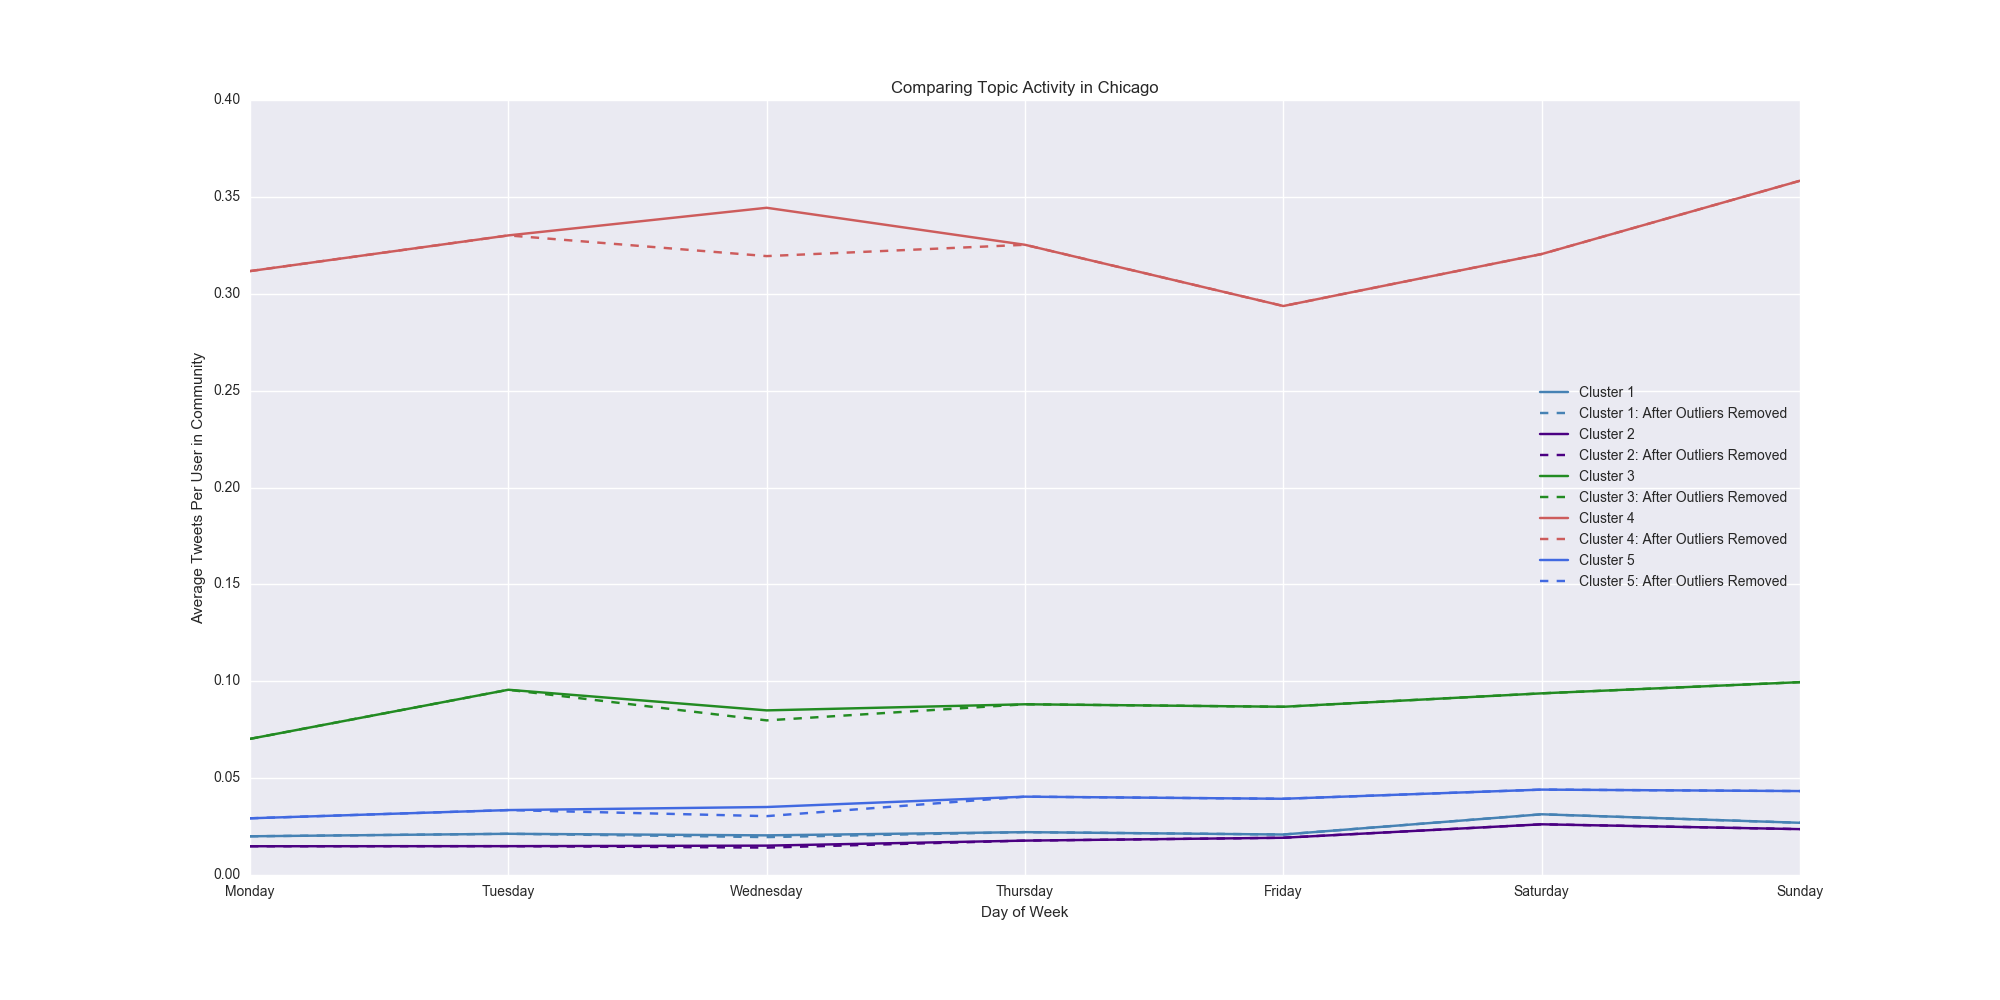
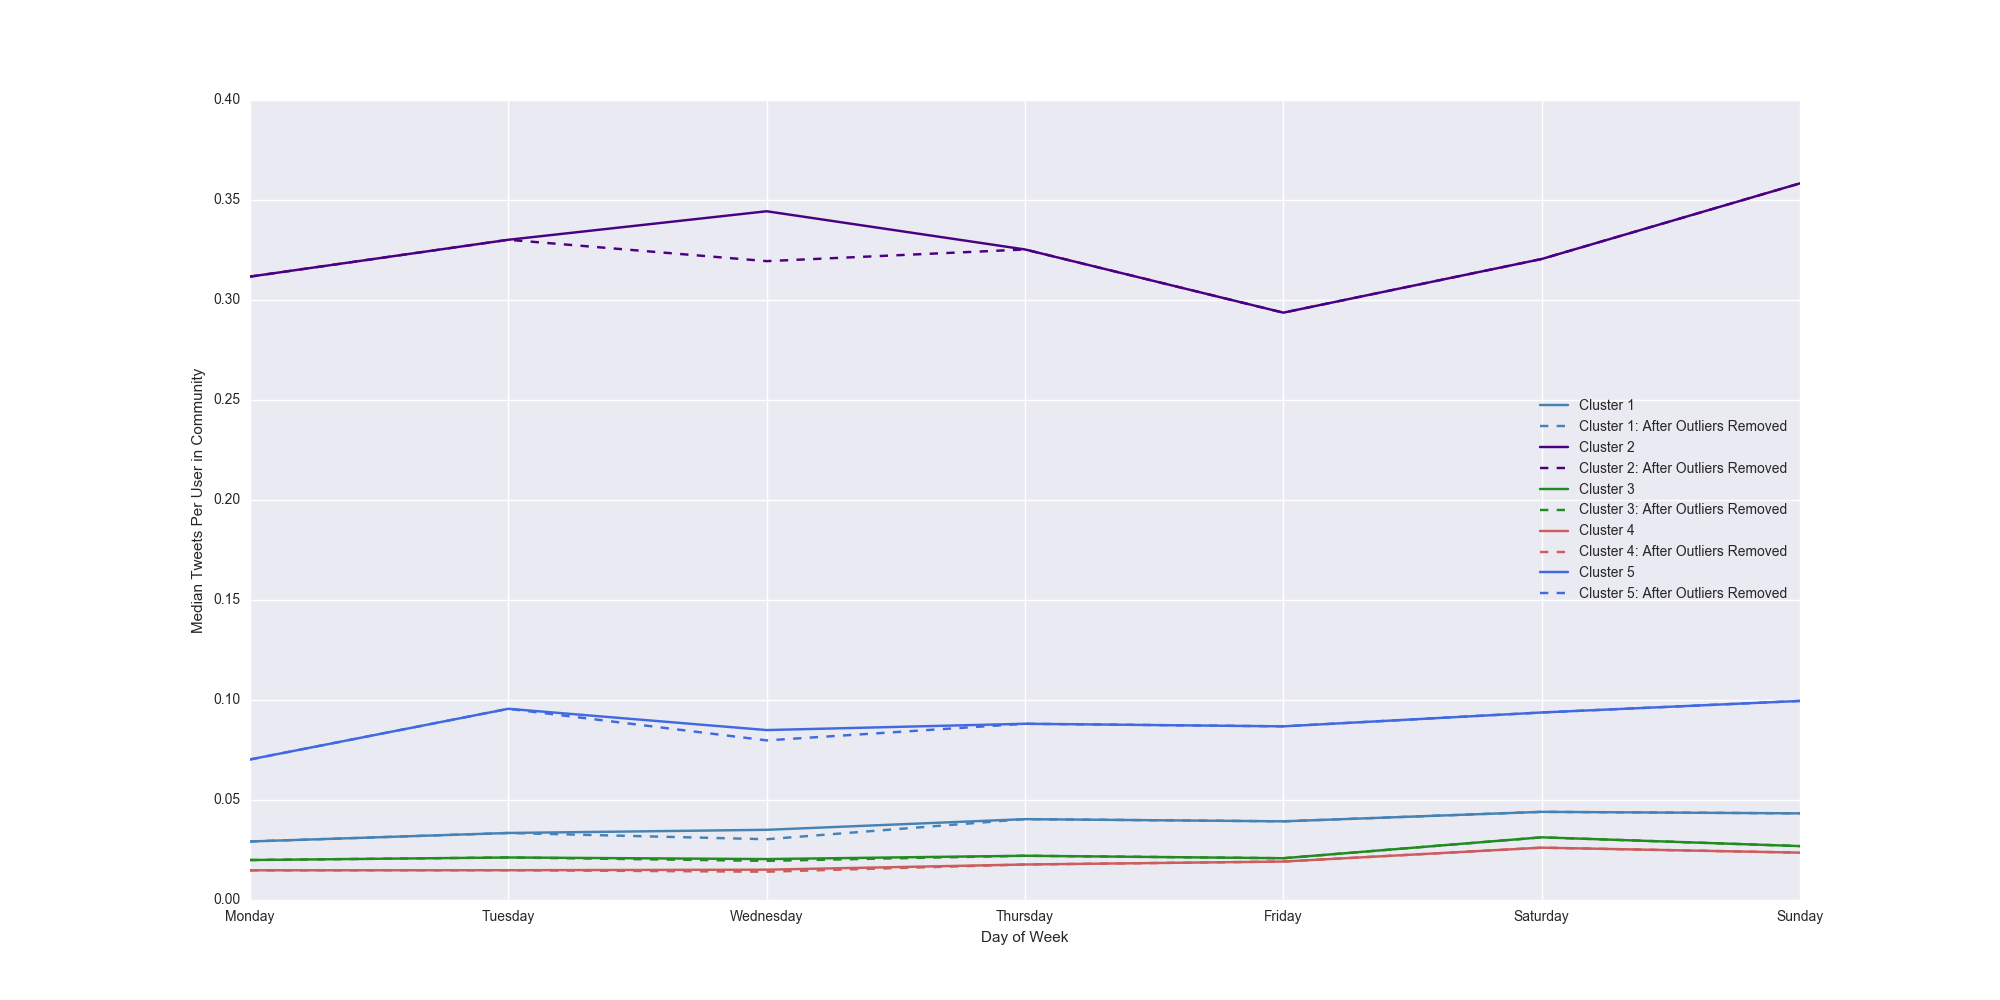
time series

diff --git a/Analysis/Cleaning.py b/Analysis/Cleaning.py
@@ -8,7 +8,6 @@ from login_info import user, host, password
 
 # sql command
 from SQL_Commands import Istanbul_Sql
-
 #######Importing and Cleaning######
 # connect to database
 conn = psycopg2.connect(
@@ -34,7 +33,7 @@ fulldf.top_topic = fulldf.top_topic.fillna(value=fulldf.user_lang)
 # stripping date and time from created_at
 fulldf['Date'] = fulldf['tzone'].apply(lambda row: str(row).split()[0])
 fulldf['Time'] = fulldf['tzone'].apply(lambda row: str(row).split()[1])
-
+fulldf['Date']
 # Sorting
 fulldf['Date1'] = pd.to_datetime(fulldf.Date)
 fulldf = fulldf.sort_values(by='Date1')
@@ -52,40 +51,63 @@ community_size = dict(zip(communitysize.index, communitysize.values))
 fulldf["topic_percentage"] = (1 / fulldf["top_topic"].map(community_size))
 
 # Assigning heirarchial clustering results to topics
-cluster_mapping_istanbul = {"Arabic": 1,
-                            "French": 2,
-                            "German": 2,
-                            "Russian": 3,
-                            "English0": 2,
-                            "Turkish0": 2,
-                            "Turkish13": 3,
-                            "Turkish16": 4,
-                            "English1": 2,
-                            "Turkish1": 5,
-                            "English2": 2,
-                            "Turkish2": 5,
-                            "Turkish3": 5,
-                            "Turkish4": 5,
-                            "Turkish5": 5,
-                            "Turkish6": 5,
-                            "Turkish7": 4,
-                            "Turkish8": 5,
-                            "Turkish9": 3}
+cluster_mapping_istanbul = {"ar": 1,
+                            "fr": 2,
+                            "de": 2,
+                            "ru": 3,
+                            "es": 1,
+                            "English_0": 2,
+                            "Turkish_0": 2,
+                            "Turkish_13": 3,
+                            "Turkish_16": 4,
+                            "English_1": 2,
+                            "Turkish_1": 5,
+                            "English_2": 2,
+                            "Turkish_2": 5,
+                            "Turkish_3": 5,
+                            "Turkish_4": 5,
+                            "Turkish_5": 5,
+                            "Turkish_6": 5,
+                            "Turkish_7": 4,
+                            "Turkish_8": 5,
+                            "Turkish_9": 3, }
 
-cluster_mapping_chicago = {0: 4, 1: 4, 2: 4, 3: 4, 4: 4, 5: 4, 6: 4,
-                           7:  3, 8: 5, 9: 2, 10: 1, 11: 2, 12: 2, 13: 2, 14: 2, 15: 2, 16: 2, 17: 2, 18: 5, 'es': 5}
-
-cluster_mapping_la = {"Arabic": 1,
-                      "French": 2,
-                      "Japanese": 3,
-                      "Portuguese": 4,
-                      "Spanish": 2,
+cluster_mapping_chicago = {"es": 1,
+                           0: 2,
+                           10: 3,
+                           11: 4,
+                           12: 4,
+                           13: 4,
+                           14: 4,
+                           15: 4,
+                           16: 4,
+                           17: 4,
+                           18: 1,
+                           1: 2,
+                           2: 2,
+                           3: 2,
+                           4: 2,
+                           5: 2,
+                           6: 2,
+                           7: 5,
+                           8: 1,
+                           9: 4,
+                           'ar': 7}
+cluster_mapping_la = {"ar": 1,
+                      "fr": 2,
+                      "ja": 3,
+                      "pt": 4,
+                      "es": 2,
                       0: 3,
                       12: 5,
                       15: 5,
                       16: 5,
                       17: 5,
                       19: 5,
+                      1: 3,
+                      2: 3,
+                      3: 3,
+                      4: 3,
                       5: 3,
                       6: 3,
                       7: 3,

diff --git a/Analysis/Final_Time_Series.py b/Analysis/Final_Time_Series.py
@@ -9,7 +9,6 @@ import seaborn as sns
 
 # import data
 from Cleaning import fulldf
-#%matplotlib inline
 # group together topics by cluster assignment and date
 Users = fulldf.groupby(['Date1', 'Cluster', 'top_topic'])[
     'topic_percentage'].aggregate(sum).unstack()
@@ -31,31 +30,36 @@ df["Date"] = Dates
 df["Cluster"] = Clusters
 df["Median_Counts"] = Medians
 
-# Cluster 1 time series
+
 df_cluster1 = df[df.Cluster == 1]
 cluster1_series = pd.Series(df_cluster1["Median_Counts"].as_matrix(), index=df_cluster1["Date"])
-
+print(df_cluster1)
+cluster1_series.describe()
 # Cluster 2 time series
 df_cluster2 = df[df.Cluster == 2]
 cluster2_series = pd.Series(df_cluster2["Median_Counts"].as_matrix(), index=df_cluster2["Date"])
-
+cluster2_series.describe()
 # Cluster 3 time series
 df_cluster3 = df[df.Cluster == 3]
 cluster3_series = pd.Series(df_cluster3["Median_Counts"].as_matrix(), index=df_cluster3["Date"])
-
+cluster3_series.describe()
 # Cluster 4 time series
 df_cluster4 = df[df.Cluster == 4]
 cluster4_series = pd.Series(df_cluster4["Median_Counts"].as_matrix(), index=df_cluster4["Date"])
-
+cluster4_series.describe()
 # Cluster 5 time series
 df_cluster5 = df[df.Cluster == 5]
 cluster5_series = pd.Series(df_cluster5["Median_Counts"].as_matrix(), index=df_cluster5["Date"])
+cluster5_series.describe()
 
 ######################Plotting Entire Time Series With Rolling Average Plots###########
-fig = plt.figure(figsize=(20, 10))
+fig = plt.figure(figsize=(7, 4), dpi=300)
+
 ts = fig.add_subplot(1, 1, 1)
-plt.xlabel('Date')
-plt.ylabel('Median Tweets Per User in Community')
+#fig.set_xlabel('Date', fontsize=8)
+plt.xlabel('Date', fontsize='small')
+
+plt.ylabel('Median Tweets Per User in Community', fontsize=8)
 fig = cluster1_series.plot(color="forestgreen", label='Cluster 1')
 fig = cluster1_series.rolling(window=7, center=False).mean().plot(
     color='lightgreen', linestyle='dashed', label='Cluster 1 Rolling 7 Day Mean')
@@ -68,14 +72,14 @@ fig = cluster3_series.plot(color='indigo', label='Cluster 3')
 fig = cluster3_series.rolling(window=7, center=False).mean().plot(
     color='darkorchid', linestyle='dashed', label='Cluster 3 Rolling 7 Day Mean')
 
-fig = cluster4_series.plot(color='steelblue', label='Cluster 4')
+fig = cluster4_series.plot(color='#ff7f00', label='Cluster 4')
 fig = cluster4_series.rolling(window=7, center=False).mean().plot(
-    color='lightskyblue', linestyle='dashed', label='Cluster 4 Rolling 7 Day Mean')
+    color='#fc8d62', linestyle='dashed', label='Cluster 4 Rolling 7 Day Mean')
 
 fig = cluster5_series.plot(color='indianred', label='Cluster 5')
 fig = cluster5_series.rolling(window=7, center=False).mean().plot(
     color='lightcoral', linestyle='dashed', label='Cluster 5 Rolling 7 Day Mean')
-fig = ts.legend(loc='best')
+fig = ts.legend(loc='best', prop={'size': 4})
 plt.savefig("Graphs/Istanbul/Final_Rollingandpercentage.png")
 plt.close()
 
@@ -93,7 +97,7 @@ df = df.sort_values(by='Day of Week')
 df1 = df[df.Date != '2016-11-09']
 df1 = df[df.Date != '2016-11-02']
 
-###### Day of the Week Series#####
+# ##### Day of the Week Series#####
 # cluster 1
 # before filter
 cluster1 = df[df.Cluster == 1]
@@ -160,8 +164,6 @@ dow_series5 = dow_series5[['Monday', 'Tuesday', 'Wednesday',
                            'Thursday', 'Friday', 'Saturday', 'Sunday']]
 
 
-series5.plot(color='blue', label='Cluster')
-dow_series5.plot(color='blue', linestyle='dashed', label='Cluster')
 # Day of Week Plot
 fig = plt.figure(figsize=(20, 10))
 ts = fig.add_subplot(1, 1, 1)

diff --git a/Analysis/Investigating_Arabic_Speakers.py b/Analysis/Investigating_Arabic_Speakers.py
@@ -1,0 +1,74 @@
+"""Analyizing Arabic Speakers Twitter Activity Across Regions"""
+import pandas as pd
+import pandas.io.sql as psql
+import psycopg2
+
+# database keys
+from login_info import user, host, password
+
+# sql command
+from Arabic_SQL_Commands import Chicago_Sql, LA_Sql, Istanbul_Sql
+#######Importing and Cleaning######
+# connect to database
+conn_chi = psycopg2.connect(
+    "dbname='culturalmapper_Chicago' user=%s host=%s password=%s" % (user, host, password))
+
+conn_la = psycopg2.connect(
+    "dbname='culturalmapper_LA' user=%s host=%s password=%s" % (user, host, password))
+
+conn_ist = psycopg2.connect(
+    "dbname='culturalmapper_Istanbul' user=%s host=%s password=%s" % (user, host, password))
+
+la = psql.read_sql(LA_Sql, conn_la)
+chi = psql.read_sql(Chicago_Sql, conn_chi)
+ist = psql.read_sql(Istanbul_Sql, conn_ist)
+
+la['count'] = 1
+chi['count'] = 1
+ist['count'] = 1
+
+# LA
+communitysize = la.groupby('user_lang').user_id.nunique()
+community_size = dict(zip(communitysize.index, communitysize.values))
+la["normalized_count"] = (1 / la["user_lang"].map(community_size))
+
+# Chicago
+communitysize = chi.groupby('user_lang').user_id.nunique()
+community_size = dict(zip(communitysize.index, communitysize.values))
+chi["normalized_count"] = (1 / chi["user_lang"].map(community_size))
+
+# Istanbul
+communitysize = ist.groupby('user_lang').user_id.nunique()
+community_size = dict(zip(communitysize.index, communitysize.values))
+ist["normalized_count"] = (1 / ist["user_lang"].map(community_size))
+
+
+def formatingdata(fulldf):
+    # creating date variable
+    fulldf['Date'] = fulldf['tzone'].apply(lambda row: str(row).split()[0])
+    fulldf['Time'] = fulldf['tzone'].apply(lambda row: str(row).split()[1])
+
+    # Sorting
+    fulldf['Date1'] = pd.to_datetime(fulldf.Date)
+    fulldf = fulldf.sort_values(by='Date1')
+
+
+formatingdata(la)
+formatingdata(chi)
+formatingdata(ist)
+
+la_series = la.groupby(['Date1'])[
+    'normalized_count'].aggregate(sum)
+chi_series = chi.groupby(['Date1'])[
+    'normalized_count'].aggregate(sum)
+ist_series = ist.groupby(['Date1'])[
+    'normalized_count'].aggregate(sum)
+
+fig = plt.figure(figsize=(20, 10))
+ts = fig.add_subplot(1, 1, 1)
+plt.xlabel('Date')
+la_series.plot(label='LA')
+chi_series.plot(label='Chicago')
+ist_series.plot(label='Istanbul')
+fig = ts.legend(loc='best')
+plt.savefig("Arabic_Comparisons")

diff --git a/Analysis/Arabic_SQL_Commands.py b/Analysis/Arabic_SQL_Commands.py
@@ -1,0 +1,6 @@
+# query data within data range relative to timezone and filter out unneeded sources
+LA_Sql = "WITH casted AS(SELECT id, CAST(created_at as timestamptz) as created_at, source, text_lang, user_id, user_lang FROM la_city_primary WHERE source ILIKE ANY(ARRAY['%for Blackberry%', '%for Android%', '%tron%', '%Foursquare%', '%Instagram%', '%for iOS%', '%for iPhone%', '%for Windows Phone%', '%for iPad%', 'Twitter Web Client', '%for Mac%']) ) SELECT timezone('America/Los_Angeles', created_at) as tzone, text_lang, user_lang, user_id, source FROM casted WHERE timezone('America/Los_Angeles', created_at) > '2016-10-28' AND timezone('America/Los_Angeles', created_at) < '2017-01-28' AND user_lang = 'ar'"
+
+Chicago_Sql = "WITH casted AS(SELECT id, CAST(created_at as timestamptz) as created_at, source, text_lang, user_id, user_lang FROM chicago_city_primary WHERE source ILIKE ANY(ARRAY['%for Blackberry%', '%for Android%', '%tron%', '%Foursquare%', '%Instagram%', '%for iOS%', '%for iPhone%', '%for Windows Phone%', '%for iPad%', 'Twitter Web Client', '%for Mac%']) ) SELECT timezone('America/Chicago', created_at) as tzone, text_lang, user_lang, user_id, source FROM casted WHERE timezone('America/Chicago', created_at) > '2016-10-28' AND timezone('America/Chicago', created_at) < '2017-01-28' AND user_lang = 'ar'"
+
+Istanbul_Sql = "WITH casted AS(SELECT id, CAST(created_at as timestamptz) as created_at, source, text_lang, user_id, user_lang FROM istanbul_city_primary WHERE source ILIKE ANY(ARRAY['%for Blackberry%', '%for Android%', '%tron%', '%Foursquare%', '%Instagram%', '%for iOS%', '%for iPhone%', '%for Windows Phone%', '%for iPad%', 'Twitter Web Client', '%for Mac%']) ) SELECT timezone('Europe/Istanbul', created_at) as tzone, text_lang, user_lang, user_id, source FROM casted WHERE timezone('Europe/Istanbul', created_at) > '2016-10-28' AND timezone('Europe/Istanbul', created_at) < '2017-01-28' AND user_lang = 'ar'"
